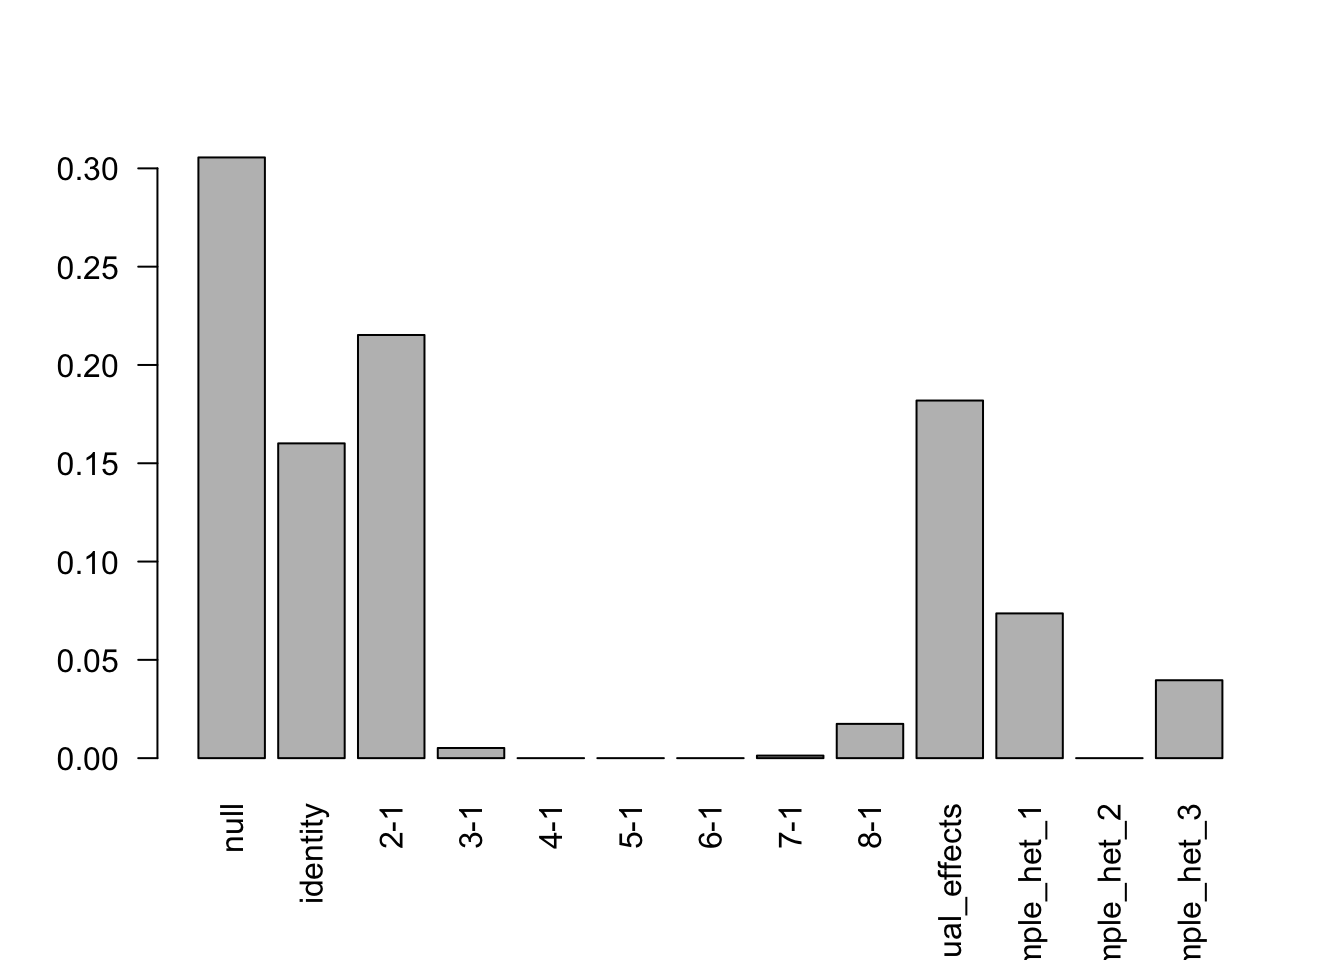
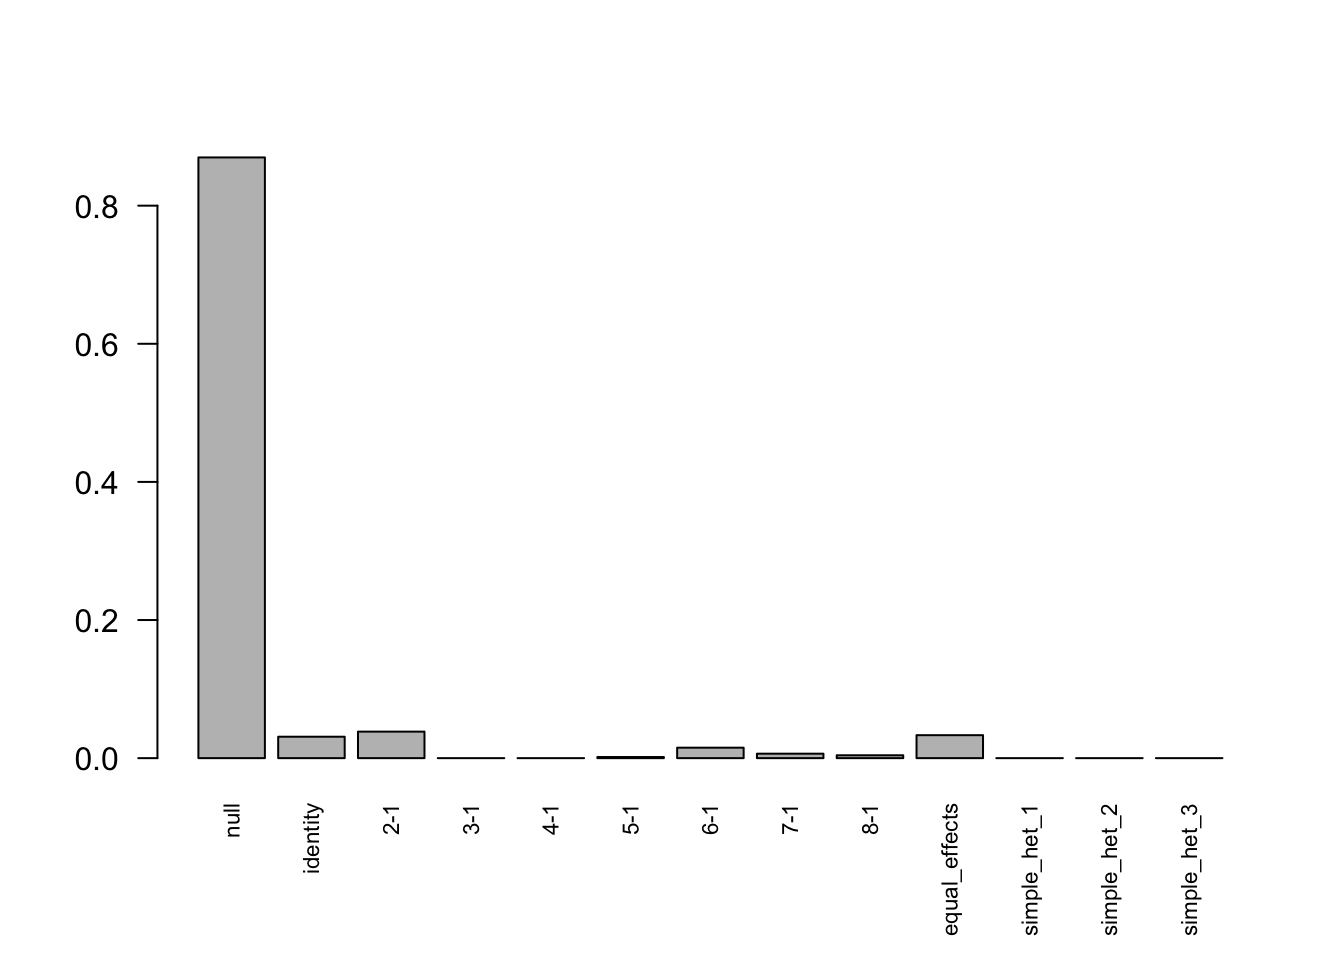
Build site.

diff --git a/docs/Simple.Contrast2.html b/docs/Simple.Contrast2.html
@@ -11,7 +11,7 @@
 
 <meta name="author" content="Yuxin Zou" />
 
-<meta name="date" content="2018-01-10" />
+<meta name="date" content="2018-01-11" />
 
 <title>Simulation with Signal Example</title>
 
@@ -312,89 +312,117 @@ div.section {
 
 <h1 class="title toc-ignore">Simulation with Signal Example</h1>
 <h4 class="author"><em>Yuxin Zou</em></h4>
-<h4 class="date"><em>2018-01-10</em></h4>
+<h4 class="date"><em>2018-01-11</em></h4>
 
 </div>
 
 
 <!-- Update knitr chunk options -->
 <!-- Insert the date the file was last updated -->
-<p><strong>Last updated:</strong> 2018-01-10</p>
+<p><strong>Last updated:</strong> 2018-01-11</p>
 <!-- Insert the R version (Git commit SHA1) if Git repository exists and R
  package git2r is installed -->
-<p>Loading the functions:</p>
-<pre class="r"><code>library(ashr)
-library(plyr)
-library(mvtnorm)
-library(assertthat)
-source(&#39;~/Documents/GitHub/mashr-zou/R/compute_covs.R&#39;)
-source(&#39;~/Documents/GitHub/mashr-zou/R/cov_udi.R&#39;)
-source(&#39;~/Documents/GitHub/mashr-zou/R/data2cov.R&#39;)
-source(&#39;~/Documents/GitHub/mashr-zou/R/ed.R&#39;)
-source(&#39;~/Documents/GitHub/mashr-zou/R/est_cor.R&#39;)
-source(&#39;~/Documents/GitHub/mashr-zou/R/get_functions.R&#39;)
-source(&#39;~/Documents/GitHub/mashr-zou/R/likelihoods_origdata.R&#39;)
-source(&#39;~/Documents/GitHub/mashr-zou/R/likelihoods_scaleddata.R&#39;)
-source(&#39;~/Documents/GitHub/mashr-zou/R/mash.R&#39;)
-source(&#39;~/Documents/GitHub/mashr-zou/R/opt.R&#39;)
-source(&#39;~/Documents/GitHub/mashr-zou/R/plots.R&#39;)
-source(&#39;~/Documents/GitHub/mashr-zou/R/posterior.R&#39;)
-source(&#39;~/Documents/GitHub/mashr-zou/R/posterior_common_cov.R&#39;)
-source(&#39;~/Documents/GitHub/mashr-zou/R/posterior_lowmem.R&#39;)
-source(&#39;~/Documents/GitHub/mashr-zou/R/RcppExports.R&#39;)
-source(&#39;~/Documents/GitHub/mashr-zou/R/set_data.R&#39;)
-source(&#39;~/Documents/GitHub/mashr-zou/R/simulations.R&#39;)</code></pre>
 <div id="simulation-design" class="section level1">
 <h1>Simulation Design</h1>
-<p>In the simulation, <span class="math display">\[c_{j2...8} = c_{j1} + \delta_{j}\]</span> <span class="math display">\[\hat{c}_{j} \sim N_{8}(c_{j}, \frac{1}{2}I)\]</span> Let L be the contrast matrix. Therefore, <span class="math display">\[\hat{\delta}_{j} = L\hat{c}_{j} \sim N_{7}(\delta_{j}, \frac{1}{2}LL&#39;)\]</span></p>
+<p>In the simulation, <span class="math display">\[c_{j2...R} = c_{j1} + \delta_{j}\]</span> <span class="math display">\[\hat{c}_{j}|c_{j} \sim N_{R}(c_{j}, \frac{1}{2}I)\]</span> Let L be the contrast matrix. Therefore, <span class="math display">\[\hat{\delta}_{j}|\delta_{j} = L\hat{c}_{j}|c_{j} \sim N_{R-1}(\delta_{j}, \frac{1}{2}LL&#39;)\]</span></p>
 <p>We first generate the data:</p>
-<pre class="r"><code>set.seed(1)
-data = sim2(nsamp = 2000, ncond = 8)</code></pre>
-<p>This simulation routine creates a dataset with 8 conditions, and four different types of deviations <span class="math inline">\(\delta_{j}\)</span>: null, independent among conditions, condition-specific in condition 2, and shared (equal effects in all conditions). It creates 2000 effects of each type for a total of 8000 effects.</p>
+<pre class="r"><code>set.seed(2018)
+data = sim2(nsamp = 21000, ncond = 8)</code></pre>
+<p>This simulation routine creates a dataset with 8 conditions, and four different types of deviations <span class="math inline">\(\delta_{j}\)</span>: null, independent among conditions, condition-specific in condition 2, and shared (equal effects in all conditions). The data contains 10% non-null effects <span class="math display">\[\delta_{j} \sim \frac{9}{10}N(0,0)+\frac{1}{30}N(0,I)+\frac{1}{30}N(0,11^{T})+\frac{1}{30}N(0,e_{1}e_{1}^{T})\]</span></p>
 <p>Set up the contrast matrix and the mash contrast data object</p>
-<pre class="r"><code>L = rbind(c(-1,1,0,0,0,0,0,0),
-          c(-1,0,1,0,0,0,0,0),
-          c(-1,0,0,1,0,0,0,0),
-          c(-1,0,0,0,1,0,0,0),
-          c(-1,0,0,0,0,1,0,0),
-          c(-1,0,0,0,0,0,1,0),
-          c(-1,0,0,0,0,0,0,1))
+<pre class="r"><code>R = 8
+L = diag(R-1)
+L = cbind(rep(-1, R-1), L)
 row.names(L) = c(&#39;2-1&#39;,&#39;3-1&#39;,&#39;4-1&#39;,&#39;5-1&#39;,&#39;6-1&#39;,&#39;7-1&#39;,&#39;8-1&#39;)
+
 mash_data = mash_set_data(Bhat=data$Chat, Shat=data$Shat)
 mash_data_L = mash_set_data_contrast(mash_data, L)</code></pre>
 <p>Set up the covariance matrices:</p>
-<pre class="r"><code>U.c = cov_canonical(mash_data_L)</code></pre>
+<pre class="r"><code># canonical
+U.c = cov_canonical(mash_data_L)
+# data driven
+m.1by1 = mash_1by1(mash_data_L, alpha=1)
+strong = get_significant_results(m.1by1,0.05)
+# only 5 strong samples
+
+# center Z
+# mash_data_L.center = mash_data_L
+# mash_data_L.center$Bhat = mash_data_L$Bhat/mash_data_L$BShat # obtain z
+# mash_data_L.center$BShat = matrix(1, nrow(mash_data_L$Bhat),ncol(mash_data_L$Bhat))
+# mash_data_L.center$Bhat = apply(mash_data_L.center$Bhat, 2, function(x) x - mean(x))
+# U.pca = cov_pca(mash_data_L.center,5,strong)
+# U.ed = cov_ed(mash_data_L.center, U.pca, strong)</code></pre>
 <p>Fit <code>mashcontrast</code> model</p>
 <pre class="r"><code>mashcontrast.model = mash(mash_data_L, U.c, algorithm.version = &#39;R&#39;)</code></pre>
-<pre><code> - Computing 8000 x 181 likelihood matrix.
- - Likelihood calculations took 0.92 seconds.
+<pre><code> - Computing 21000 x 181 likelihood matrix.
+ - Likelihood calculations took 1.83 seconds.
  - Fitting model with 181 mixture components.
- - Model fitting took 1.35 seconds.
+ - Model fitting took 4.59 seconds.
  - Computing posterior matrices.
- - Computation allocated took 0.16 seconds.</code></pre>
+ - Computation allocated took 0.21 seconds.</code></pre>
+<pre class="r"><code>print(get_loglik(mashcontrast.model),digits = 10)</code></pre>
+<pre><code>[1] -184139.2001</code></pre>
 <p>Use <code>get_significant_results</code> to find the indices of effects that are “significant”:</p>
 <pre class="r"><code>length(get_significant_results(mashcontrast.model))</code></pre>
-<pre><code>[1] 774</code></pre>
-<pre class="r"><code>barplot(get_estimated_pi(mashcontrast.model),las = 2)</code></pre>
-<p><img src="figure/Simple.Contrast2.Rmd/unnamed-chunk-8-1.png" width="672" style="display: block; margin: auto;" /></p>
-<pre class="r"><code>print(get_loglik(mashcontrast.model),digits = 10)</code></pre>
-<pre><code>[1] -79820.96994</code></pre>
+<pre><code>[1] 111</code></pre>
+<p>The number of false positive is 0.</p>
+<pre class="r"><code>barplot(get_estimated_pi(mashcontrast.model),las = 2,cex.names = 0.7)</code></pre>
+<p><img src="figure/Simple.Contrast2.Rmd/unnamed-chunk-8-1.png" width="672" style="display: block; margin: auto;" /> <!--
+The weights are mainly in the canonical matrices, as we expected. The data is generated using the canonical matrices.
+--></p>
 </div>
-<div id="comparing-discover-result-with-hatdelta_j-sim-n_7delta_ji" class="section level1">
-<h1>Comparing discover result with <span class="math inline">\(\hat{\delta}_{j} \sim N_{7}(\delta_{j},I)\)</span>:</h1>
+<div id="comparing-discovery-result-with-hatdelta_j-sim-n_7delta_ji" class="section level1">
+<h1>Comparing discovery result with <span class="math inline">\(\hat{\delta}_{j} \sim N_{7}(\delta_{j},I)\)</span>:</h1>
 <pre class="r"><code>Indep.data = mash_set_data(Bhat = data$Chat%*%t(L))
-U.c = cov_canonical(Indep.data)
 Indep.model = mash(Indep.data, U.c, algorithm.version = &#39;R&#39;)</code></pre>
-<pre><code> - Computing 8000 x 181 likelihood matrix.
- - Likelihood calculations took 0.65 seconds.
+<pre><code> - Computing 21000 x 181 likelihood matrix.
+ - Likelihood calculations took 1.50 seconds.
  - Fitting model with 181 mixture components.
- - Model fitting took 1.41 seconds.
+ - Model fitting took 5.36 seconds.
  - Computing posterior matrices.
- - Computation allocated took 0.09 seconds.</code></pre>
+ - Computation allocated took 0.14 seconds.</code></pre>
+<pre class="r"><code>print(get_loglik(Indep.model),digits = 10)</code></pre>
+<pre><code>[1] -194668.353</code></pre>
 <pre class="r"><code>length(get_significant_results(Indep.model))</code></pre>
-<pre><code>[1] 2745</code></pre>
-<pre class="r"><code>barplot(get_estimated_pi(Indep.model),las = 2)</code></pre>
-<p><img src="figure/Simple.Contrast2.Rmd/unnamed-chunk-12-1.png" width="672" style="display: block; margin: auto;" /></p>
+<pre><code>[1] 6349</code></pre>
+<p>There are more discoveries here, but lots of them are false discoveries. The number of false positive is 4774.</p>
+<pre class="r"><code>barplot(get_estimated_pi(Indep.model),las = 2, cex.names = 0.7)</code></pre>
+<p><img src="figure/Simple.Contrast2.Rmd/unnamed-chunk-11-1.png" width="672" style="display: block; margin: auto;" /></p>
+<!--
+We check the False Positive Rate and True Positive Rate. 
+$$FPR = \frac{|N\cap S|}{|N|} \quad TPR = \frac{|CS\cap S|}{|T|} $$
+
+
+
+
+```r
+# plot(Indep[,'FPR'], Indep[,'TPR'], xlab = 'FPR', ylab='TPR', type='l', xlim=c(0,0.8), ylim=c(0,0.6))
+# lines(mashcontrast[,'FPR'], mashcontrast[,'TPR'], col='red')
+```
+
+Or
+$$FPR = \frac{|S\cap N|}{|N|} \quad TPR = \frac{|S|}{|T|} $$
+
+```r
+delta = data$C %*% t(L)
+Tr = sum(apply(delta!=0, 1, max)) # number of lines with at least one non-zero effects
+N = nrow(delta) - Tr # number of lines with all zero effects
+
+thresh.seq = seq(0, 0.5, by=0.0005)[-1]
+mashcontrast = matrix(0,length(thresh.seq), 2)
+Indep = matrix(0,length(thresh.seq), 2)
+colnames(mashcontrast) = c('TPR', 'FPR')
+colnames(Indep) = c('TPR', 'FPR')
+
+for(t in 1:length(thresh.seq)){
+  mashcontrast[t,] = c(length(get_significant_results(mashcontrast.model, thresh = thresh.seq[t]))/Tr, sum(get_significant_results(mashcontrast.model, thresh = thresh.seq[t])<=16200)/N)
+  Indep[t,] = c(length(get_significant_results(Indep.model, thresh = thresh.seq[t]))/Tr, sum(get_significant_results(Indep.model, thresh = thresh.seq[t])<=16200)/N)
+}
+
+# plot(mashcontrast[,'FPR'], mashcontrast[,'TPR'], xlab = 'FPR', ylab='TPR', type='l')
+# lines(Indep[,'FPR'], Indep[,'TPR'], col='red')
+```
+-->
 </div>
 <div id="session-information" class="section level1">
 <h1>Session information</h1>
@@ -415,7 +443,7 @@ attached base packages:
 [1] stats     graphics  grDevices utils     datasets  methods   base     
 
 other attached packages:
-[1] assertthat_0.2.0 mvtnorm_1.0-6    plyr_1.8.4       ashr_2.1-27     
+[1] assertthat_0.2.0 mvtnorm_1.0-6    plyr_1.8.4       ashr_2.2-3      
 
 loaded via a namespace (and not attached):
  [1] Rcpp_0.12.14      knitr_1.17        magrittr_1.5     
